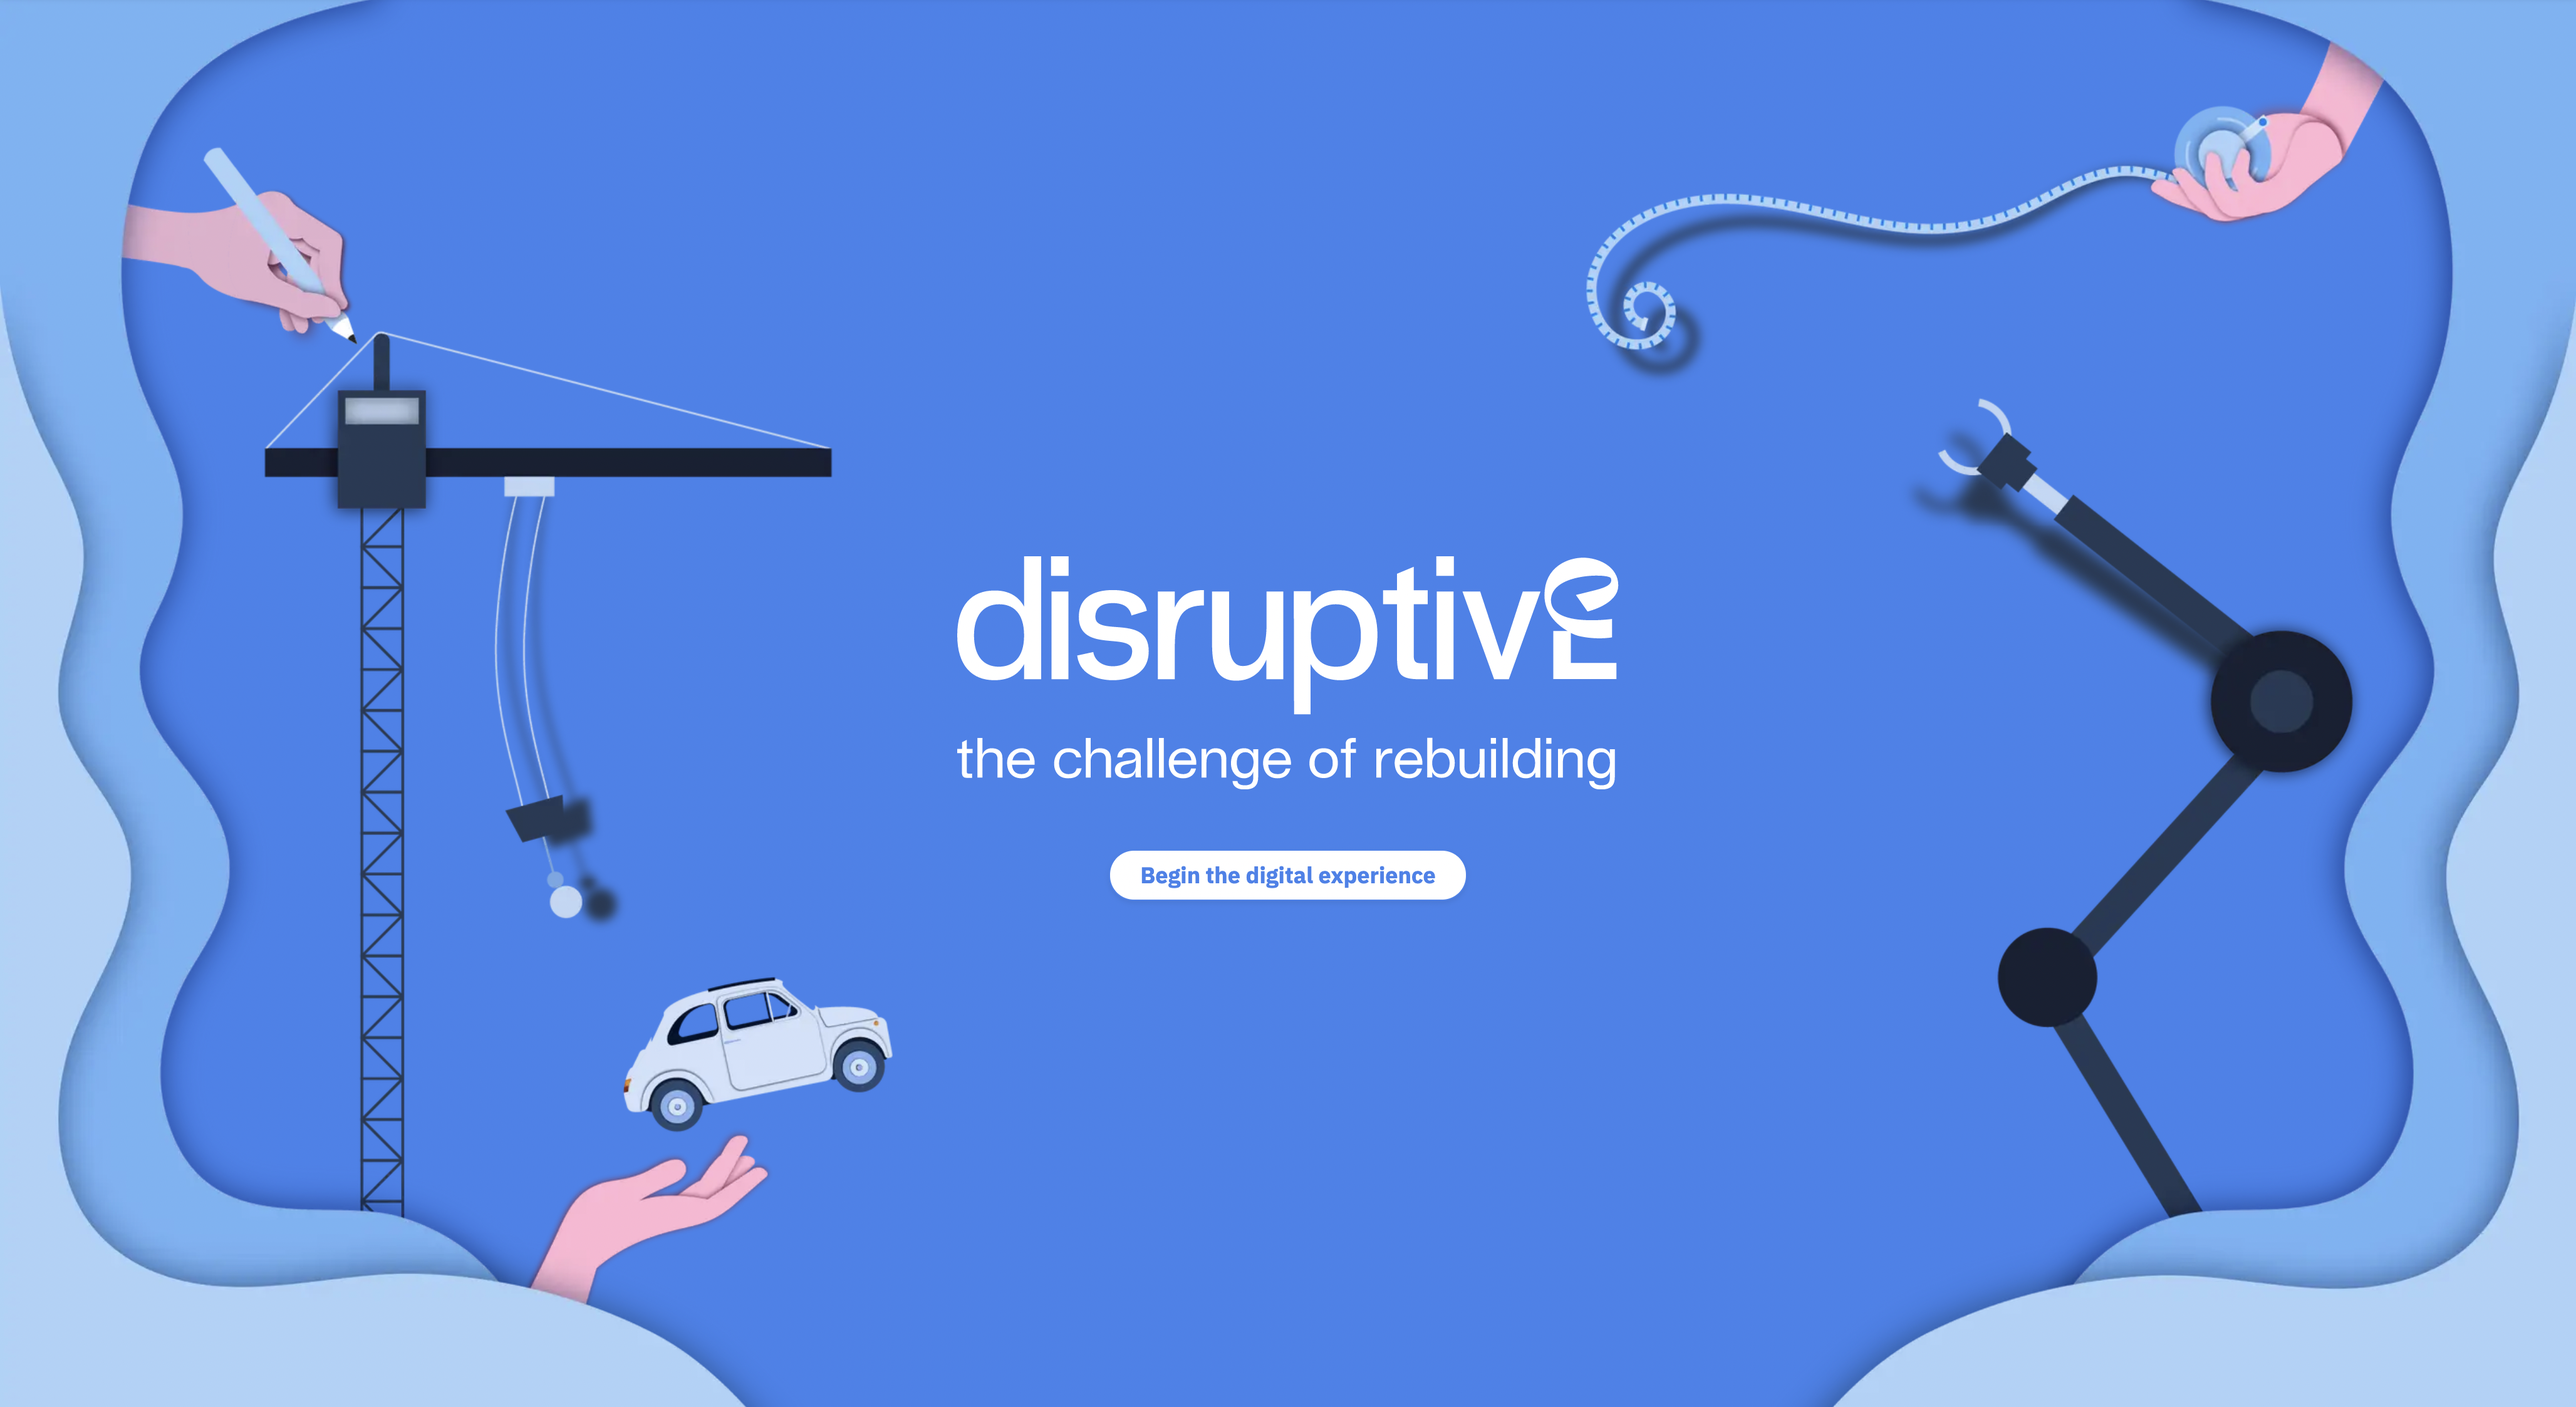
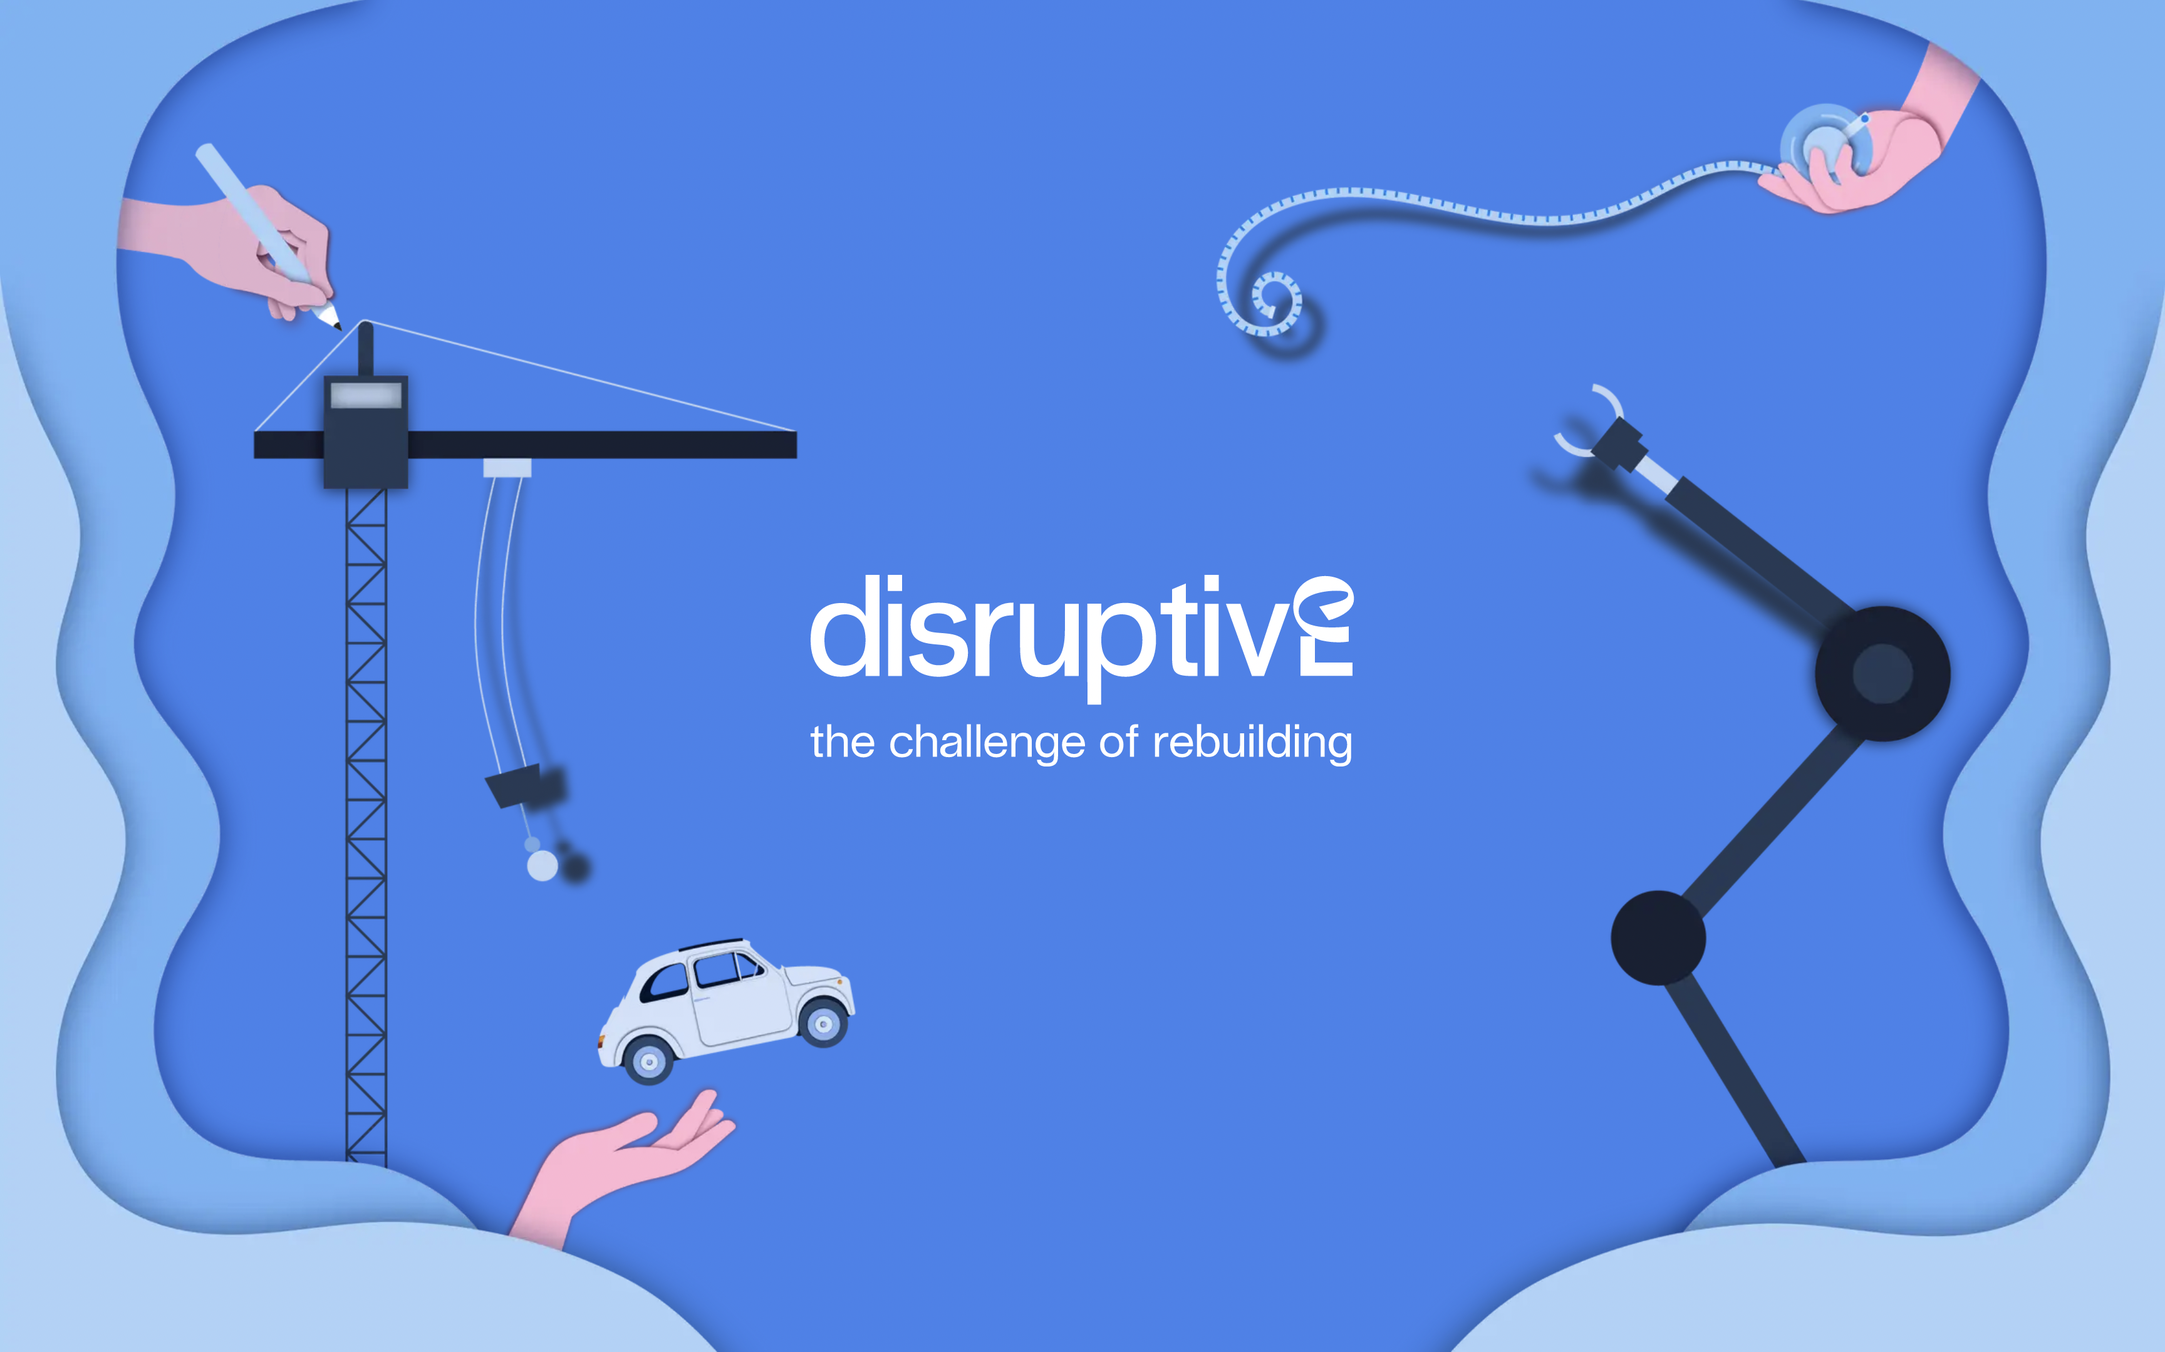
Projects updated

diff --git a/src/pages/projects/samuele-sanguineti.js b/src/pages/projects/samuele-sanguineti.js
@@ -1,0 +1,74 @@
+import * as React from 'react';
+import {graphql, Link} from 'gatsby';
+
+import Wrapper from '../../components/Project/Wrapper';
+import Heading from '../../components/Project/Heading';
+import Cover from '../../components/Project/Cover';
+import {AnimatedLink, Tag, TextBox} from '../../components/Typography';
+import Grid from '../../components/Grid';
+import Image, {createGetImageFromName} from '../../components/Image';
+import Slider from '../../components/Project/Slider';
+import Arrow from '../../components/Arrow';
+
+function Mockup({title, names, images}) {
+  return (
+    <div>
+      <h3 className="fs-lg text-center">{title}</h3>
+      {names.map(img => (
+        <Image className="w-full mb-16 rounded-2xl drop-shadow-xl" key={img} image={images(img)} />
+      ))}
+    </div>
+  );
+}
+export default function SignHereToFightThePandemic({data: {project, images}}) {
+  const {
+    name,
+    slug,
+    roles,
+    tagline,
+    thumbnail,
+    cover,
+    year,
+    client,
+    team,
+    websiteUrl,
+    description,
+  } = project;
+
+  const getImage = createGetImageFromName(images.nodes, 'samuele-sanguinet');
+
+  return (
+    <Wrapper project={project}>
+      <Heading
+        name={name}
+        tagline={tagline}
+        year={year}
+        client={client}
+        websiteUrl={websiteUrl}
+        roles={roles}
+      />
+      <Cover cover={cover} thumbnail={thumbnail} />
+      <TextBox title="Overview" className="py-lg">
+        <h3 className="fs-xl mb-2 pb-8 leading-relaxed">{description}</h3>
+      </TextBox>
+      <div />
+    </Wrapper>
+  );
+}
+
+export const query = graphql`
+  {
+    project: projectsCsv(slug: {eq: "samuele-sanguineti"}) {
+      ...ProjectFragment
+    }
+    images: allFile(filter: {relativeDirectory: {eq: "samuele-sanguineti"}}) {
+      nodes {
+        publicURL
+        relativePath
+        childImageSharp {
+          gatsbyImageData
+        }
+      }
+    }
+  }
+`;

diff --git a/src/pages/projects/sign-here-to-fight-the-pandemic.js b/src/pages/projects/sign-here-to-fight-the-pandemic.js
@@ -9,6 +9,7 @@ import Grid from '../../components/Grid';
 import Image, {createGetImageFromName} from '../../components/Image';
 import Slider from '../../components/Project/Slider';
 import Arrow from '../../components/Arrow';
+import Footer from '../../components/Project/Footer';
 
 export default function SignHereToFightThePandemic({data: {project, images}}) {
   const {
@@ -79,7 +80,7 @@ export default function SignHereToFightThePandemic({data: {project, images}}) {
         <Image className="w-full h-full object-cover" image={getImage('cavi-questions.jpg')} />
       </Grid>
 
-      <TextBox>
+      <Footer>
         <Tag title="Course">
           Interaction Design Studio
           <br />
@@ -98,9 +99,7 @@ export default function SignHereToFightThePandemic({data: {project, images}}) {
               'Andrea Benedetti',
               'Elena Aversa',
             ].map(t => (
-              <li key={t} className="inline-block after:content-comma">
-                {t}
-              </li>
+              <li key={t}>{t}</li>
             ))}
           </ul>
         </Tag>
@@ -120,9 +119,18 @@ export default function SignHereToFightThePandemic({data: {project, images}}) {
             <li>Gephi</li>
             <li>Indesign</li>
             <li>Illustrator</li>
+            <li>
+              <br />
+              <AnimatedLink
+                href="https://github.com/michelebruno/sign-here-to-fight-the-pandemic"
+                target="_blank"
+              >
+                Repo on github ↗
+              </AnimatedLink>
+            </li>
           </ul>
         </Tag>
-      </TextBox>
+      </Footer>
     </Wrapper>
   );
 }

diff --git a/src/pages/projects/hierarchical-clustering.js b/src/pages/projects/hierarchical-clustering.js
@@ -1,0 +1,60 @@
+import * as React from 'react';
+import {graphql} from 'gatsby';
+
+import Wrapper from '../../components/Project/Wrapper';
+import Heading from '../../components/Project/Heading';
+import Cover from '../../components/Project/Cover';
+import {TextBox} from '../../components/Typography';
+import Image, {createGetImageFromName} from '../../components/Image';
+
+export default function SignHereToFightThePandemic({data: {project, images}}) {
+  const {
+    name,
+    slug,
+    roles,
+    tagline,
+    thumbnail,
+    cover,
+    year,
+    client,
+    team,
+    websiteUrl,
+    description,
+  } = project;
+
+  const getImage = createGetImageFromName(images.nodes, 'samuele-sanguinet');
+
+  return (
+    <Wrapper project={project}>
+      <Heading
+        name={name}
+        tagline={tagline}
+        year={year}
+        client={client}
+        websiteUrl={websiteUrl}
+        roles={roles}
+      />
+      <Cover cover={cover} thumbnail={thumbnail} />
+      <TextBox title="Overview" className="py-lg">
+        <h3 className="fs-xl mb-2 pb-8 leading-relaxed">{description}</h3>
+      </TextBox>
+    </Wrapper>
+  );
+}
+
+export const query = graphql`
+  {
+    project: projectsCsv(slug: {eq: "hierarchical-clustering"}) {
+      ...ProjectFragment
+    }
+    images: allFile(filter: {relativeDirectory: {eq: "hierarchical-clustering"}}) {
+      nodes {
+        publicURL
+        relativePath
+        childImageSharp {
+          gatsbyImageData
+        }
+      }
+    }
+  }
+`;

diff --git a/src/pages/projects/interconnected.js b/src/pages/projects/interconnected.js
@@ -1,0 +1,48 @@
+import * as React from 'react';
+import {graphql} from 'gatsby';
+
+import Wrapper from '../../components/Project/Wrapper';
+import Heading from '../../components/Project/Heading';
+import Cover from '../../components/Project/Cover';
+import {TextBox} from '../../components/Typography';
+import Image, {createGetImageFromName} from '../../components/Image';
+
+export default function SignHereToFightThePandemic({data: {project, images}}) {
+  const {name, roles, tagline, thumbnail, cover, year, client, websiteUrl, description} = project;
+
+  const getImage = createGetImageFromName(images.nodes, 'interconnected');
+
+  return (
+    <Wrapper project={project}>
+      <Heading
+        name={name}
+        tagline={tagline}
+        year={year}
+        client={client}
+        websiteUrl={websiteUrl}
+        roles={roles}
+      />
+      <Cover cover={cover} thumbnail={thumbnail} />
+      <TextBox title="Overview" className="py-lg">
+        <h3 className="fs-xl mb-2 pb-8 leading-relaxed">{description}</h3>
+      </TextBox>
+    </Wrapper>
+  );
+}
+
+export const query = graphql`
+  {
+    project: projectsCsv(slug: {eq: "interconnected"}) {
+      ...ProjectFragment
+    }
+    images: allFile(filter: {relativeDirectory: {eq: "interconnected"}}) {
+      nodes {
+        publicURL
+        relativePath
+        childImageSharp {
+          gatsbyImageData
+        }
+      }
+    }
+  }
+`;

diff --git a/src/pages/projects/disruptive.js b/src/pages/projects/disruptive.js
@@ -8,6 +8,7 @@ import {Tag, TextBox} from '../../components/Typography';
 import Grid from '../../components/Grid';
 import Image, {createGetImageFromName} from '../../components/Image';
 import Slider from '../../components/Project/Slider';
+import Footer from '../../components/Project/Footer';
 
 export default function Disruptive({data: {project, images}}) {
   const {
@@ -73,17 +74,17 @@ export default function Disruptive({data: {project, images}}) {
           way of exploring and approaching the great rebuilding challenge that awaits.
         </TextBox>
       </Grid>
-      <Grid padding three>
-        <div className="col-span-2">
+      <Grid padding twelve>
+        <div className="col-span-9">
           <Image className="w-full" image={getImage('ex-elkann.jpg')} />
         </div>
 
-        <div className="col-span-1 flex flex-col justify-end">
+        <div className="col-span-3 flex flex-col justify-end">
           <Image className="w-full" image={getImage('ex-sign.jpg')} />
         </div>
       </Grid>
 
-      <TextBox>
+      <Footer>
         <Tag title="Project team">
           <ul>
             {team.map(t => (
@@ -98,7 +99,7 @@ export default function Disruptive({data: {project, images}}) {
             <li>SwiperJs</li>
           </ul>
         </Tag>
-      </TextBox>
+      </Footer>
     </Wrapper>
   );
 }

diff --git a/src/pages/projects/feelo.js b/src/pages/projects/feelo.js
@@ -9,11 +9,12 @@ import Grid from '../../components/Grid';
 import Image, {createGetImageFromName} from '../../components/Image';
 import Slider from '../../components/Project/Slider';
 import Arrow from '../../components/Arrow';
+import Footer from '../../components/Project/Footer';
 
 function Mockup({title, names, images}) {
   return (
     <div>
-      <h3 className="fs-lg text-center">{title}</h3>
+      <h3 className="fs-lg text-center pb-6">{title}</h3>
       {names.map(img => (
         <Image className="w-full mb-16 rounded-2xl drop-shadow-xl" key={img} image={images(img)} />
       ))}
@@ -79,7 +80,7 @@ export default function SignHereToFightThePandemic({data: {project, images}}) {
         <Mockup names={['giulia-diario.png']} images={getImage} title="Individual activities" />
       </div>
 
-      <TextBox>
+      <Footer>
         <Tag title="Course">
           Interaction Design Studio
           <br />
@@ -107,7 +108,7 @@ export default function SignHereToFightThePandemic({data: {project, images}}) {
             <li>GatsbyJs</li>
           </ul>
         </Tag>
-      </TextBox>
+      </Footer>
     </Wrapper>
   );
 }

diff --git a/src/pages/index.js b/src/pages/index.js
@@ -70,7 +70,7 @@ function IndexPage() {
         </div>
       </section>
       <section className="py-16 lg:py-32 px">
-        <p className="fs-3xl leading-relaxed">
+        <p className="fs-3xl leading-tight">
           I enjoy designing interactive experiences. <br /> I'll write other stuff about me here,
           brb!
         </p>
@@ -130,7 +130,7 @@ function IndexPage() {
       </section>
 
       <section className="min-h-[80vh] border-b grid items-center">
-        <div className="px items-center leading-relaxed">
+        <div className="px items-center leading-tight">
           <p className="fs-3xl">
             Want to work together?
             <br />

diff --git a/src/components/Typography.js b/src/components/Typography.js
@@ -60,13 +60,13 @@ export function TextBox({children, padding, containBorder, className, title, lay
   return (
     <div
       className={classNames(
-        'fs-lg grid grid-cols-1 lg:grid-cols-12 px',
+        'fs-lg grid grid-cols-1 lg:grid-cols-4 px',
         padding && 'pb-lg',
         className
       )}
     >
-      <h2 className="fs-2xl lg:col-span-4 pb">{title}</h2>
-      <div className="lg:col-span-7 leading-relaxed px">{children}</div>
+      <h2 className="fs-2xl pb">{title}</h2>
+      <div className="lg:col-span-2 leading-relaxed ">{children}</div>
     </div>
   );
 }

diff --git a/src/components/Project/Heading.js b/src/components/Project/Heading.js
@@ -4,8 +4,8 @@ import Arrow from '../Arrow';
 
 export default function Heading({name, year, tagline, roles, client, websiteUrl, children}) {
   return (
-    <header className="grid grid-cols-1 lg:grid-cols-3 items-end px py-lg">
-      <div className="col-span-2 pb lg:pb-0">
+    <header className="grid grid-cols-1 lg:grid-cols-4 items-end px py-lg">
+      <div className="col-span-3 pb lg:pb-0">
         <div>
           <H1 className="lg:inline leading-none">{name}</H1>
           <span className="fs-xl"> ({year})</span>

diff --git a/src/style/global.css b/src/style/global.css
@@ -35,7 +35,7 @@
     @apply antialiased leading-relaxed}
 
   .grid {
-    @apply gap-x-6 lg:gap-x-12;
+    @apply gap-x-3 lg:gap-x-6;
   }
 
   .fs-base {
@@ -72,7 +72,10 @@
   }
 
   .bg-navbar {
-    background: linear-gradient(#FFF , rgb(255,255,255,0));
+
+    -webkit-backdrop-filter: blur(8px);
+    backdrop-filter: blur(8px);
+    /*background: linear-gradient(#FFF , rgb(255,255,255,0));*/
   }
 
   @keyframes scrollAnimation {

diff --git a/src/components/Project/Cover.js b/src/components/Project/Cover.js
@@ -6,7 +6,7 @@ export default function ({cover, thumbnail}) {
     <div className="h-screen overflow-hidden border-t border-b">
       <Image
         image={typeof cover !== 'undefined' && cover?.childImageSharp ? cover : thumbnail}
-        className="h-full w-full object-cover scale-110 origin-top"
+        className="h-full w-full object-cover scale-110 object-center"
       />
     </div>
   );

diff --git a/src/components/Project/Footer.js b/src/components/Project/Footer.js
@@ -1,0 +1,10 @@
+import * as React from 'react';
+import {H3} from '../Typography';
+
+export default function Footer({children}) {
+  return (
+    <footer className="grid lg:grid-cols-4 pb-lg">
+      <div className="col-span-2 col-start-2">{children}</div>
+    </footer>
+  );
+}
